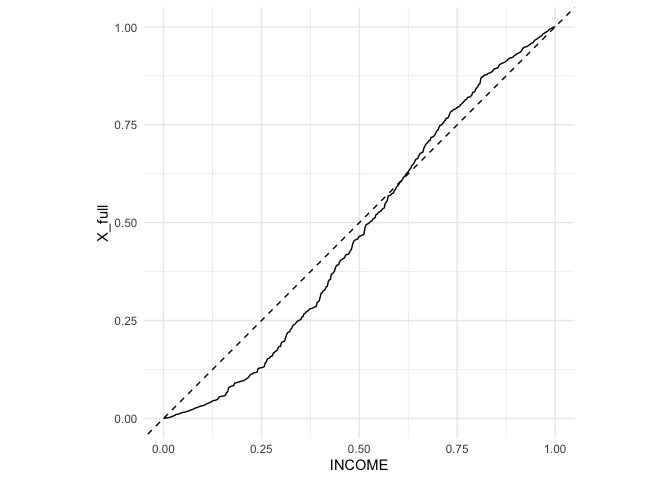
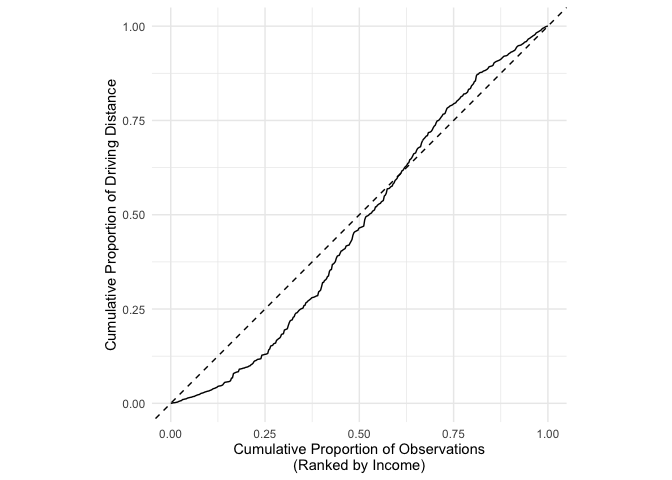
edit readme

diff --git a/README.md b/README.md
@@ -25,6 +25,8 @@ pak::pak("sarahlotspeich/ggconc")
 
 ## Example
 
+Below is a simple concentration curve using `geom_concentration()`:
+
 ``` r
 library(ggconc)
 library(ggplot2)
@@ -32,9 +34,32 @@ ggplot(food_dat, aes(x = INCOME, y = X_full)) +
    geom_concentration(rank_ascend = TRUE, round_rank = 0) +
    geom_abline(slope = 1, intercept = 0, linetype = 2) +
    coord_equal() +
-   theme_minimal()
+   theme_minimal() +
+  labs(x = "Cumulative Proportion of Observations\n(Ranked by Income)",
+       y = "Cumulative Proportion of Driving Distance")
 #> Warning: Removed 2 rows containing non-finite outside the scale range
 #> (`stat_concentration()`).
 ```
 
 <img src="man/figures/README-example-1.png" width="100%" />
+
+Here is an example of multiple concentration curves with grouped data:
+
+``` r
+food_dat$income_group = cut(food_dat$INCOME, 
+                            breaks = quantile(food_dat$INCOME, probs = c(0, 0.33, 0.67, 1), na.rm = TRUE),
+                            labels = c("Low", "Medium", "High"),
+                            include.lowest = TRUE)
+
+ggplot(food_dat, aes(x = INCOME, y = X_full, color = income_group)) +
+  geom_abline(slope = 1, intercept = 0, linetype = 2, color = "black") +
+  geom_concentration(rank_ascend = TRUE, round_rank = 0, linewidth = 1.2) +
+  coord_equal() +
+  labs(x = "Cumulative Proportion of Observations\n(Ranked by Income)",
+       y = "Cumulative Proportion of Driving Distance",
+       color = "Income Group")
+#> Warning: Removed 2 rows containing non-finite outside the scale range
+#> (`stat_concentration()`).
+```
+
+<img src="man/figures/README-unnamed-chunk-2-1.png" width="100%" />
